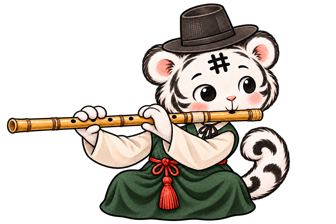
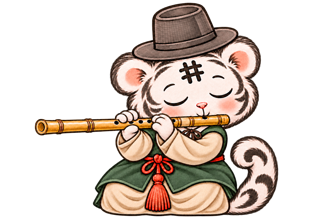
style(blog): 기술 블로그 절쑤 탭 아이콘과 대금 일러스트 개선 (S15P31E102-610)

diff --git a/layouts/_default/baseof.html b/layouts/_default/baseof.html
@@ -10,7 +10,7 @@
   {{- end }}
   <title>{{ if .IsHome }}{{ site.Title }}{{ else if eq .Kind "taxonomy" }}{{ if eq .Data.Plural "tags" }}태그{{ else }}분류{{ end }} · {{ site.Title }}{{ else }}{{ .Title }} · {{ site.Title }}{{ end }}</title>
   <meta name="description" content="{{ with .Description }}{{ . }}{{ else }}{{ with .Summary }}{{ . | plainify | truncate 120 }}{{ else }}{{ site.Params.description }}{{ end }}{{ end }}">
-  <link rel="icon" href="{{ site.Data.brand.mascot | relURL }}" type="image/webp">
+  <link rel="icon" href="{{ "images/tiger-face-icon.png" | relURL }}" type="image/png" sizes="64x64">
   <link rel="preconnect" href="https://fonts.googleapis.com">
   <link rel="preconnect" href="https://fonts.gstatic.com" crossorigin>
   <link rel="stylesheet" href="https://fonts.googleapis.com/css2?family=Noto+Sans+KR:wght@400;500;600;700&amp;display=swap">

diff --git a/layouts/partials/journal.html b/layouts/partials/journal.html
@@ -41,7 +41,8 @@
     {{ partial "reading-list.html" (dict "posts" .latest "title" "최신 글" "id" "latest-posts-title" "titleOnly" true) }}
     <div class="sidebar-note">
       <p>우리 소리에<br>가까워지는 시간.</p>
-      <img src="{{ "images/tiger-daegeum.png" | relURL }}" alt="" width="336" height="224" loading="lazy" decoding="async">
+      {{- $mascotVersion := substr (sha256 (readFile "static/images/tiger-daegeum.png")) 0 12 }}
+      <img src="{{ "images/tiger-daegeum.png" | relURL }}?v={{ $mascotVersion }}" alt="" width="336" height="224" loading="lazy" decoding="async">
     </div>
   </aside>
 </div>
